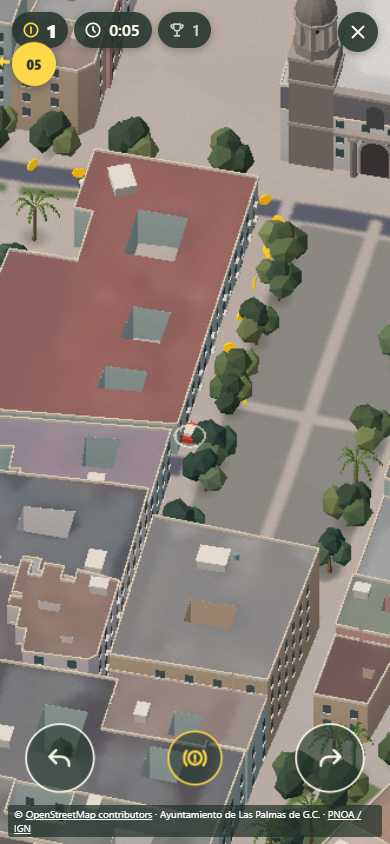
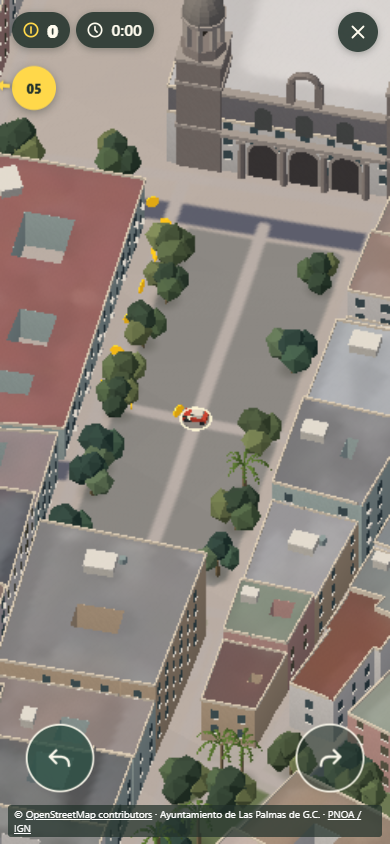
Show car heading inside its ring and simplify the driving HUD

diff --git a/index.html b/index.html
@@ -7,7 +7,6 @@
 <symbol id="i-left" viewBox="0 0 24 24"><path d="M9 6l-5 5 5 5M4 11h9a6 6 0 0 1 6 6v1"/></symbol>
 <symbol id="i-right" viewBox="0 0 24 24"><path d="M15 6l5 5-5 5M20 11h-9a6 6 0 0 0-6 6v1"/></symbol>
 <symbol id="i-brake" viewBox="0 0 24 24"><circle cx="12" cy="12" r="5"/><path d="M5.5 6.5a9 9 0 0 0 0 11M18.5 6.5a9 9 0 0 1 0 11M12 10v2.5M12 14.4v.1"/></symbol>
-<symbol id="i-siren" viewBox="0 0 24 24"><path d="M7 18v-5a5 5 0 0 1 10 0v5M5 18h14M12 4V2M4.5 6.5L3 5M19.5 6.5L21 5"/></symbol>
 <symbol id="i-retry" viewBox="0 0 24 24"><path d="M5 12a7 7 0 1 0 2.2-5.1M5 4v4h4"/></symbol>
 <symbol id="i-map" viewBox="0 0 24 24"><path d="M9 5l6 2 5-2v12l-5 2-6-2-5 2V7zM9 5v12M15 7v12"/></symbol>
 <symbol id="i-point" viewBox="0 0 24 24"><path d="M12 3l7 9h-4.500v9h-5v-9H5z" fill="currentColor"/></symbol>
@@ -17,13 +16,12 @@
 <button id="index-toggle" aria-label="Lugares de interés" title="Lugares de interés" aria-controls="places" aria-expanded="false">☰</button><nav aria-label="Lugares de interés"><div id="places"></div></nav>
 <div class="tools"><button id="plus" title="Acercar" aria-label="Acercar">+</button><button id="minus" title="Alejar" aria-label="Alejar">−</button><button id="reset" title="Vista general" aria-label="Vista general">⌖</button><button id="drive" title="Conducir" aria-label="Conducir"><svg class="ic" aria-hidden="true"><use href="#i-car"/></svg></button></div>
 <div id="hud" hidden>
-<div id="hud-stats"><span class="stat coin" id="stat-coins" aria-label="Monedas"><svg class="ic" aria-hidden="true"><use href="#i-coin"/></svg><b id="hud-coins">0</b></span><span class="stat" aria-label="Tiempo"><svg class="ic" aria-hidden="true"><use href="#i-clock"/></svg><span id="hud-time">0:00</span></span><span class="stat best" aria-label="Récord"><svg class="ic" aria-hidden="true"><use href="#i-trophy"/></svg><span id="hud-record">0</span></span></div>
+<div id="hud-stats"><span class="stat coin" id="stat-coins" aria-label="Monedas"><svg class="ic" aria-hidden="true"><use href="#i-coin"/></svg><b id="hud-coins">0</b></span><span class="stat" aria-label="Tiempo"><svg class="ic" aria-hidden="true"><use href="#i-clock"/></svg><span id="hud-time">0:00</span></span></div>
 <button id="drive-exit" title="Salir" aria-label="Salir del modo conducción"><svg class="ic" aria-hidden="true"><use href="#i-x"/></svg></button>
-<div id="danger" aria-hidden="true"></div>
 <div id="goal" aria-hidden="true"><svg class="ic" aria-hidden="true"><use href="#i-point"/></svg><b></b></div>
 <div id="pops" aria-hidden="true"></div>
 <div id="guide" aria-hidden="true"><span class="zone left"><svg class="ic" aria-hidden="true"><use href="#i-left"/></svg></span><span class="zone both"><svg class="ic" aria-hidden="true"><use href="#i-brake"/></svg></span><span class="zone right"><svg class="ic" aria-hidden="true"><use href="#i-right"/></svg></span></div>
 <p id="hud-live" role="status"></p>
 </div>
-<section id="over" hidden role="dialog" aria-label="Atrapado"><svg class="ic caught" aria-hidden="true"><use href="#i-siren"/></svg><div id="over-stats"><span class="stat coin" aria-label="Monedas"><svg class="ic" aria-hidden="true"><use href="#i-coin"/></svg><b id="over-coins">0</b></span><span class="stat" aria-label="Tiempo"><svg class="ic" aria-hidden="true"><use href="#i-clock"/></svg><span id="over-time">0:00</span></span><span class="stat best" aria-label="Récord"><svg class="ic" aria-hidden="true"><use href="#i-trophy"/></svg><span id="over-record">0</span></span></div><div class="actions"><button id="again" title="Otra vez" aria-label="Otra vez"><svg class="ic" aria-hidden="true"><use href="#i-retry"/></svg></button><button id="leave" title="Volver al mapa" aria-label="Volver al mapa"><svg class="ic" aria-hidden="true"><use href="#i-map"/></svg></button></div></section>
+<section id="over" hidden role="dialog" aria-label="Atrapado"><div id="over-stats"><span class="stat coin" aria-label="Monedas"><svg class="ic" aria-hidden="true"><use href="#i-coin"/></svg><b id="over-coins">0</b></span><span class="stat" aria-label="Tiempo"><svg class="ic" aria-hidden="true"><use href="#i-clock"/></svg><span id="over-time">0:00</span></span><span class="stat best" aria-label="Récord"><svg class="ic" aria-hidden="true"><use href="#i-trophy"/></svg><span id="over-record">0</span></span></div><div class="actions"><button id="again" title="Otra vez" aria-label="Otra vez"><svg class="ic" aria-hidden="true"><use href="#i-retry"/></svg></button><button id="leave" title="Volver al mapa" aria-label="Volver al mapa"><svg class="ic" aria-hidden="true"><use href="#i-map"/></svg></button></div></section>
 <article hidden><h3></h3><button id="close" aria-label="Cerrar ficha">×</button></article><p id="status" role="status">Cargando…</p><footer>© <a href="https://www.openstreetmap.org/copyright">OpenStreetMap contributors</a> · Ayuntamiento de Las Palmas de G.C. · <a href="https://pnoa.ign.es/">PNOA / IGN</a></footer></main><script type="module" src="/main.js"></script></body></html>

diff --git a/style.css b/style.css
@@ -5,7 +5,6 @@
 #hud-stats{position:absolute;left:12px;top:12px;display:flex;gap:6px}.stat{display:inline-flex;align-items:center;gap:6px;height:36px;padding:0 12px 0 9px;border-radius:18px;background:#23332ce0;box-shadow:0 2px 8px #1a241f55}.stat.coin{color:#ffd84a}.stat.coin b{font-size:19px;color:#fffcef}.stat.best{color:#c9d6c2}.stat .ic{width:20px;height:20px}
 #stat-coins.bump{animation:bump .28s cubic-bezier(.2,1.6,.4,1)}@keyframes bump{35%{transform:scale(1.22)}}
 #drive-exit{pointer-events:auto;position:absolute;right:12px;top:12px;width:40px;height:40px;display:grid;place-items:center;border:0;border-radius:20px;background:#23332ce0;color:#fffcef;box-shadow:0 2px 8px #1a241f55}#drive-exit:hover,#drive-exit:active{background:#31584c}
-#danger{position:absolute;inset:0;opacity:0;box-shadow:inset 0 0 70px 12px #e2453a;transition:opacity .25s linear}
 #goal{position:absolute;left:0;top:0;width:44px;height:44px;margin:-22px 0 0 -22px;display:grid;place-items:center;border-radius:50%;background:#ffd84a;color:#23332c;box-shadow:0 3px 10px #1a241f66;will-change:transform}#goal b{font:800 13px system-ui;grid-area:1/1}#goal .ic{grid-area:1/1;width:18px;height:18px;stroke:none;transform:rotate(var(--turn,0rad)) translateY(-31px);color:#ffd84a;filter:drop-shadow(0 1px 2px #1a241f88)}#goal.near .ic{display:none}
 #pops{position:absolute;inset:0;overflow:hidden}.pop{position:absolute;display:inline-flex;align-items:center;gap:3px;font:800 18px system-ui;color:#ffd84a;text-shadow:0 1px 0 #23332c,0 2px 6px #1a241f99;transform:translate(-50%,-50%);animation:pop .9s cubic-bezier(.16,1,.3,1) forwards}.pop.big{font-size:26px}.pop .ic{width:18px;height:18px;stroke-width:2.5}@keyframes pop{from{opacity:0;transform:translate(-50%,-20%) scale(.6)}18%{opacity:1;transform:translate(-50%,-90%) scale(1.15)}to{opacity:0;transform:translate(-50%,-260%) scale(1)}}
 #guide{position:absolute;inset:auto 0 calc(48px + env(safe-area-inset-bottom)) 0;display:flex;justify-content:space-between;align-items:center;padding:0 22px}.zone{width:76px;height:76px;display:grid;place-items:center;border-radius:50%;border:2px solid #fffcef;background:#23332c99;color:#fffcef;opacity:0;transform:scale(.9);transition:opacity .25s,transform .12s cubic-bezier(.16,1,.3,1),background-color .12s}.zone .ic{width:34px;height:34px}.zone.both{width:60px;height:60px;border-color:#ffd84a;color:#ffd84a}
@@ -15,7 +14,6 @@
 @keyframes nudge{0%,55%,to{transform:scale(.9)}25%{transform:scale(1.08);background:#31584c}}@keyframes squeeze{0%,to{transform:scale(.9)}40%{transform:scale(1.08);background:#31584c}}
 #hud-live{position:absolute;width:1px;height:1px;overflow:hidden;clip-path:inset(50%);margin:0}
 #over{position:absolute;left:50%;top:50%;translate:-50% -50%;display:grid;justify-items:center;gap:16px;padding:22px 22px 20px;border-radius:16px;background:#fffcef;color:#253b35;box-shadow:0 14px 40px #1a241f77;font:600 17px/1 system-ui,sans-serif;font-variant-numeric:tabular-nums;animation:arrive .45s cubic-bezier(.16,1,.3,1)}@keyframes arrive{from{opacity:0;transform:translateY(18px) scale(.94)}}
-#over .caught{width:54px;height:54px;color:#a64e33;animation:siren .5s steps(2,jump-none) infinite}@keyframes siren{to{color:#1f4a8f}}
 #over-stats{display:flex;gap:6px}#over .stat{background:#eeead9;box-shadow:none;color:#31584c}#over .stat.coin{color:#b98a00}#over .stat.coin b{color:#253b35}#over .stat.best.new{background:#ffd84a;color:#253b35;animation:bump .5s cubic-bezier(.2,1.6,.4,1) .3s}
 #over .actions{display:flex;gap:12px}#over button{width:64px;height:64px;display:grid;place-items:center;border-radius:50%;border:2px solid #31584c;background:transparent;color:#31584c}#over button .ic{width:28px;height:28px}#over #again{width:84px;height:64px;border-radius:32px;background:#31584c;color:#fffcef}#over button:hover{background:#e6e7d6}#over #again:hover{background:#26463c}
 #map.driving #pins,#map.driving nav,#map.driving #index-toggle,#map.driving article,#map.driving .tools{display:none}#map.driving #scene{cursor:default}

diff --git a/drive.js b/drive.js
@@ -209,7 +209,19 @@ export function makeDrive({scene,camera,host,data,locations,altitude,view,compac
   const beacon=new T.Mesh(new T.CylinderGeometry(3.2,3.2,26,20,1,true).translate(0,13,0),new T.MeshBasicMaterial({color:'#ffd84a',transparent:true,opacity:.22,depthWrite:false,side:T.DoubleSide}));
   group.add(beacon);
   // Drawn through buildings so the car stays readable in narrow streets.
-  const halo=new T.Mesh(new T.RingGeometry(2.3,2.75,28).rotateX(-Math.PI/2),new T.MeshBasicMaterial({color:'#fff7d6',transparent:true,opacity:.6,depthTest:false,depthWrite:false}));
+  const nose=new T.Shape();
+  nose.moveTo(2.24,0);
+  nose.lineTo(.5,.95);
+  nose.lineTo(.95,0);
+  nose.lineTo(.5,-.95);
+  nose.closePath();
+  const arrow=new T.ShapeGeometry(nose);
+  const inset=arrow.clone().translate(-1.25,0,0).scale(.70,.65,1).translate(1.25,0,0);
+  const marker=mergeGeometries([tint(new T.RingGeometry(2.3,2.75,28),'#fff7d6'),
+    tint(arrow,'#263831'),tint(inset,'#fff7d6')]);
+  const halo=new T.Mesh(marker.rotateX(-Math.PI/2),new T.MeshBasicMaterial({
+    vertexColors:true,transparent:true,opacity:.9,depthTest:false,depthWrite:false
+  }));
   halo.renderOrder=10;group.add(halo);
   const dummy=new T.Object3D();
   const coinMesh=new T.InstancedMesh(new T.CylinderGeometry(1.15,1.15,.24,14).rotateX(Math.PI/2),new T.MeshStandardMaterial({color:'#ffcf24',emissive:'#b07a00',roughness:.4,flatShading:true}),COINS);
@@ -478,6 +490,7 @@ export function makeDrive({scene,camera,host,data,locations,altitude,view,compac
     for(const b of [player,...chasers])b.hop=Math.max(0,b.hop-dt*2.2);
     place(player);
     halo.position.copy(player.blob.position);
+    halo.rotation.y=player.mesh.rotation.y;
     chasers.forEach((c,i)=>{place(c);c.light.visible=!c.wreck;c.light.material=(Math.floor(now/140)+i)%2?lightRed:lightBlue;});
     beacon.scale.set(1+Math.sin(spin*.8)*.08,1,1+Math.sin(spin*.8)*.08);beacon.visible=!!target;
     coinMesh.count=coins.length;
@@ -510,8 +523,6 @@ export function makeDrive({scene,camera,host,data,locations,altitude,view,compac
     // HUD
     el('hud-coins').textContent=String(score);
     el('hud-time').textContent=clock(time);
-    el('hud-record').textContent=String(Math.max(record,score));
-    el('danger').style.opacity=state==='playing'?String(T.MathUtils.clamp((26-nearest)/18,0,1)*(.6+.4*Math.sin(now/90))):'0';
     const {steer,brake}=input();
     zones.left.classList.toggle('on',state==='playing' && (steer>0 || brake));
     zones.right.classList.toggle('on',state==='playing' && (steer<0 || brake));

diff --git a/docs/QA.md b/docs/QA.md
@@ -65,16 +65,16 @@ La [vista mobile del Teatro Pérez Galdós](screenshots/teatro-mobile.png) copre
 - Chrome con emulazione 390×844, 10 s di guida: intervallo mediano fra frame 17,5 ms, 95º percentile 18,3 ms. È il computer di sviluppo, non un telefono.
 - [Schermata mobile](screenshots/conducir-mobile.png).
 
-Limiti noti: nessuna prova su telefono fisico (tocco reale, vibrazione, prestazioni). Lo swipe non ha un test automatico. La cattura nel test dipende dall'arrivo casuale delle pattuglie, con attesa massima di 120 s. Le auto sono cerchi di 1,15 m di raggio; solo gli alberi a più di 4,5 m da una facciata sono ostacoli. Le ombre dinamiche sono macchie, la shadow map resta statica. Gli edifici possono coprire l'auto nelle vie strette: un alone resta visibile attraverso i volumi.
+Limiti noti: nessuna prova su telefono fisico (tocco reale, vibrazione, prestazioni). Lo swipe non ha un test automatico. La cattura nel test dipende dall'arrivo casuale delle pattuglie, con attesa massima di 120 s. Le auto sono cerchi di 1,15 m di raggio; solo gli alberi a più di 4,5 m da una facciata sono ostacoli. Le ombre dinamiche sono macchie, la shadow map resta statica. Gli edifici possono coprire l'auto nelle vie strette: l’anello e la freccia interna seguono il muso e restano visibili attraverso i volumi.
 
 ### Interfaccia a icone e game feel
 
-HUD, guida e pannello finale senza testo visibile: icone SVG proprie, numeri, zone tattili animate (lezione del freno dopo 4 s, una sola volta, ricordata nel browser), indicatore di destinazione con il numero del luogo, fascio luminoso sul traguardo, bordo rosso di pericolo. Etichette e annunci restano per i lettori di schermo. Aggiunti: calamita delle monete, numeri che saltano fuori alla raccolta, lampeggianti delle pattuglie, testacoda dei rottami, muso che si abbassa in frenata, pausa prima del pannello di cattura.
+HUD, guida e pannello finale senza testo visibile: icone SVG proprie, numeri, zone tattili animate (lezione del freno dopo 4 s, una sola volta, ricordata nel browser), indicatore di destinazione con il numero del luogo, fascio luminoso sul traguardo e record nel solo pannello finale. Etichette e annunci restano per i lettori di schermo. Aggiunti: calamita delle monete, numeri che saltano fuori alla raccolta, lampeggianti delle pattuglie, testacoda dei rottami, muso che si abbassa in frenata, pausa prima del pannello di cattura.
 
 Camera: anticipo smussato a parte, inseguimento stretto, zoom con costante di tempo di circa 1 s. Misurato a campioni di 0,5 s durante la guida: zoom tra 0,91 e 0,97 del valore base, variazione massima fra due campioni 0,012. Ingresso in planata dallo zoom della mappa in circa 1,5 s.
 
-- [Guida del freno su mobile](screenshots/conducir-mobile.png) · [pannello di cattura](screenshots/conducir-fin.png).
-- Il rilevatore di design segnala il footer a 10 px e il font Inter, preesistenti e non modificati, e il bordo rosso di pericolo, voluto.
+- [HUD di guida su mobile](screenshots/conducir-mobile.png) · [pannello di cattura](screenshots/conducir-fin.png).
+- Il rilevatore di design segnala il footer a 10 px e il font Inter, preesistenti e non modificati.
 - Non provato su telefono fisico. La sensazione rispetto al video di Pako va giudicata giocando.
 
 ## Corridoio Vegueta–Arenales–Ciudad Jardín

diff --git a/README.md b/README.md
@@ -68,7 +68,7 @@ El botón 🚗 de las herramientas abre una persecución arcade sobre la maqueta
 - Las monedas marcan la ruta por las calles hasta uno de los lugares; al llegar hay un bono y aparece otra ruta.
 - Las patrullas aumentan cada 18 s. Te atrapan si te alcanzan cuando vas despacio; a plena velocidad solo empujan. El récord se guarda en el navegador.
 
-La interfaz del juego no usa texto: iconos para monedas, tiempo y récord; dos zonas táctiles animadas enseñan a girar y, tras unos segundos, a frenar con ambas; una ficha amarilla con el número del lugar señala el destino desde el borde de la pantalla; un haz de luz lo marca en la maqueta; el borde rojo avisa de una patrulla cercana. Los nombres se anuncian solo a lectores de pantalla.
+La interfaz del juego no usa texto: iconos para monedas y tiempo durante la partida, y el récord en el resumen final; dos zonas táctiles animadas enseñan a girar y, tras unos segundos, a frenar con ambas; una ficha amarilla con el número del lugar señala el destino desde el borde de la pantalla; un haz de luz lo marca en la maqueta. Una flecha dentro del círculo del coche señala el morro incluso cuando lo oculta un edificio. Los nombres se anuncian solo a lectores de pantalla.
 
 Toda la física y el ritmo se ajustan en el objeto `TUNE` al inicio de `drive.js`.
 

diff --git a/PROGRESS.md b/PROGRESS.md
@@ -17,3 +17,5 @@ Corretto l’affioramento del terreno attraverso le carreggiate. Il viewer compo
 Mappa, guida e HUD condividono lo stesso comportamento animato su tutti i dispositivi. La suite browser attende il completamento del volo verso Santa Ana prima di verificare il recupero della vista.
 
 **E · Estensione verso Ciudad Jardín.** Il corridoio ricavato da edifici comunali, OSM, MDT05 e PNOA copre 3,041 km² di terraferma (6,24×), con dieci luoghi e 80 settori da 240 m. Il viewer mantiene una panoramica residente, precarica il dettaglio in direzione di guida, scarta i risultati obsoleti e gestisce separatamente le risorse di ciascun settore. Guida e collisioni usano un grafo globale. Controllati viaggio fra quartieri, passaggio di confine nei due sensi, stabilità del budget e perdita di contesto durante il caricamento. Dettagli, limiti e misure in [QA](docs/QA.md); procedura in [EXPAND_CITY](docs/EXPAND_CITY.md).
+
+Durante la guida il contatore mostra monete e tempo. La coppa compare a fine partita. Una freccia nello stesso anello 3D segue l’orientamento visivo del veicolo, anche in derapata e dietro gli edifici. Rimossi il bordo di allarme e la sirena dal pannello finale.
